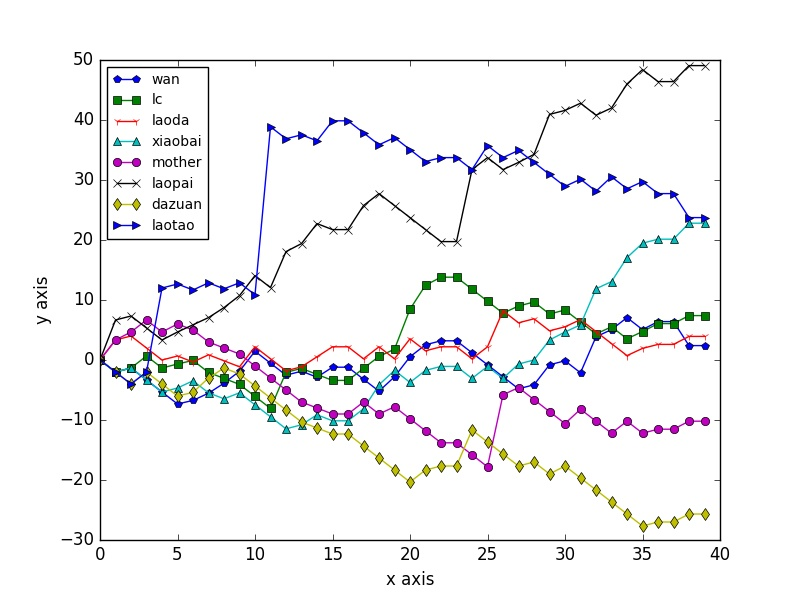
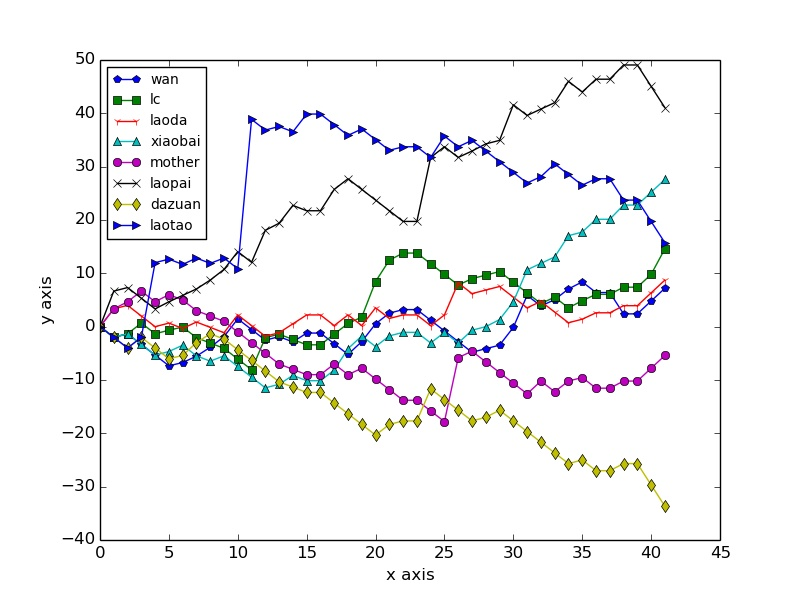
update

diff --git a/README.md b/README.md
@@ -1,23 +1,63 @@
 # E cup guess competition report
 ## real-time ranking
-2016-06-26 17:32:07
+2016-06-27 14:07:29
 
 |rank|name|score|win|loss|
 |:---:|:---:|:---:|:---:|:---:|
-|1|laopai|49.07|56%|27%|
-|2|laotao|23.73|36%|47%|
-|3|xiaobai|22.80|55%|28%|
-|4|lc|7.40|47%|36%|
-|5|laoda|3.93|46%|37%|
-|6|wan|2.40|44%|40%|
-|7|mother|-10.20|31%|53%|
-|8|dazuan|-25.67|26%|58%|
+|1|laopai|41.07|52%|32%|
+|2|xiaobai|27.60|56%|29%|
+|3|laotao|15.73|36%|49%|
+|4|lc|14.60|51%|33%|
+|5|laoda|8.73|48%|37%|
+|6|wan|7.20|45%|39%|
+|7|mother|-5.40|33%|51%|
+|8|dazuan|-33.67|26%|58%|
 
 ## Pond
-545.53
+543.13
 
 ## History
 ![image](https://github.com/Anserw/E_Cup/blob/master/plot.jpg)
+### 2016062703 Hungary 0 : 4 Belgium
+- handicap: 1 / 0.5
+- scorer: laotao
+- owners:
+ - Hungary: laotao
+ - Belgium: lc
+
+
+|name|guess|score change|
+|:---:|:---:|:---:|
+|wan|Belgium|2.40|
+|lc|Belgium|4.80|
+|laoda|Belgium|2.40|
+|xiaobai|Belgium|2.40|
+|mother|Belgium|2.40|
+|laopai|Hungary|-4.00|
+|dazuan|Hungary|-4.00|
+|laotao|Hungary|-4.00|
+|Pond|..|-2.40|
+
+### 2016062700 Germany 3 : 0 Slovakia
+- handicap: -1
+- scorer: laotao
+- owners:
+ - Germany: dazuan
+ - Slovakia: laopai
+
+
+|name|guess|score change|
+|:---:|:---:|:---:|
+|wan|Germany|2.40|
+|lc|Germany|2.40|
+|laoda|Germany|2.40|
+|xiaobai|Germany|2.40|
+|mother|Germany|2.40|
+|laopai|Slovakia|-4.00|
+|dazuan|Slovakia|-4.00|
+|laotao|Slovakia|-4.00|
+|Pond|..|0.00|
+
 ### 2016062603 Croatia 0 : 0 Portugal
 - handicap: 0
 - scorer: laotao
@@ -78,26 +118,6 @@
 |laotao|Poland|0.00|
 |Pond|..|0.00|
 
-### 2016062303 Italy 0 : 1 Ireland
-- handicap: -0.5 / 0
-- scorer: laotao
-- owners:
- - Italy: xiaobai
- - Ireland: laopai
-
-
-|name|guess|score change|
-|:---:|:---:|:---:|
-|wan|Italy|-2.00|
-|lc|Ireland|1.20|
-|laoda|Ireland|1.20|
-|xiaobai|Ireland|2.40|
-|mother|Italy|-2.00|
-|laopai|Ireland|2.40|
-|dazuan|Italy|-2.00|
-|laotao|Ireland|1.20|
-|Pond|..|-2.40|
-
 ### 2016062303 Sweden 0 : 1 Belgium
 - handicap: 0.5
 - scorer: laotao
@@ -117,6 +137,26 @@
 |dazuan|Belgium|0.67|
 |laotao|Sweden|-2.00|
 |Pond|..|-1.33|
+
+### 2016062303 Italy 0 : 1 Ireland
+- handicap: -0.5 / 0
+- scorer: laotao
+- owners:
+ - Italy: xiaobai
+ - Ireland: laopai
+
+
+|name|guess|score change|
+|:---:|:---:|:---:|
+|wan|Italy|-2.00|
+|lc|Ireland|1.20|
+|laoda|Ireland|1.20|
+|xiaobai|Ireland|2.40|
+|mother|Italy|-2.00|
+|laopai|Ireland|2.40|
+|dazuan|Italy|-2.00|
+|laotao|Ireland|1.20|
+|Pond|..|-2.40|
 
 ### 2016062300 Hungary 3 : 3 Portugal
 - handicap: 1.5 / 1
@@ -158,26 +198,6 @@
 |laotao|Austria|-2.00|
 |Pond|..|-4.00|
 
-### 2016062203 Croatia 2 : 1 Spain
-- handicap: 0.5
-- scorer: laotao
-- owners:
- - Croatia: mother
- - Spain: lc
-
-
-|name|guess|score change|
-|:---:|:---:|:---:|
-|wan|Spain|-2.00|
-|lc|Spain|-2.00|
-|laoda|Croatia|1.20|
-|xiaobai|Croatia|1.20|
-|mother|Croatia|2.40|
-|laopai|Croatia|1.20|
-|dazuan|Spain|-2.00|
-|laotao|Croatia|1.20|
-|Pond|..|-1.20|
-
 ### 2016062203 Czech 0 : 2 Turkey
 - handicap: 0.5 / 0
 - scorer: laotao
@@ -198,25 +218,25 @@
 |laotao|Czech|-2.00|
 |Pond|..|0.00|
 
-### 2016062200 NorthernIreland 0 : 1 Germany
-- handicap: 1.5
+### 2016062203 Croatia 2 : 1 Spain
+- handicap: 0.5
 - scorer: laotao
 - owners:
- - NorthernIreland: laopai
- - Germany: dazuan
+ - Croatia: mother
+ - Spain: lc
 
 
 |name|guess|score change|
 |:---:|:---:|:---:|
-|wan|NorthernIreland|3.33|
-|lc|Germany|-2.00|
-|laoda|Germany|-2.00|
-|xiaobai|NorthernIreland|3.33|
-|mother|Germany|-2.00|
-|laopai|NorthernIreland|6.67|
-|dazuan|Germany|-2.00|
-|laotao|Germany|-2.00|
-|Pond|..|-3.33|
+|wan|Spain|-2.00|
+|lc|Spain|-2.00|
+|laoda|Croatia|1.20|
+|xiaobai|Croatia|1.20|
+|mother|Croatia|2.40|
+|laopai|Croatia|1.20|
+|dazuan|Spain|-2.00|
+|laotao|Croatia|1.20|
+|Pond|..|-1.20|
 
 ### 2016062200 Ukraine 0 : 1 Poland
 - handicap: 0.5
@@ -237,6 +257,26 @@
 |dazuan|Poland|1.33|
 |laotao|Ukraine|-2.00|
 |Pond|..|-1.33|
+
+### 2016062200 NorthernIreland 0 : 1 Germany
+- handicap: 1.5
+- scorer: laotao
+- owners:
+ - NorthernIreland: laopai
+ - Germany: dazuan
+
+
+|name|guess|score change|
+|:---:|:---:|:---:|
+|wan|NorthernIreland|3.33|
+|lc|Germany|-2.00|
+|laoda|Germany|-2.00|
+|xiaobai|NorthernIreland|3.33|
+|mother|Germany|-2.00|
+|laopai|NorthernIreland|6.67|
+|dazuan|Germany|-2.00|
+|laotao|Germany|-2.00|
+|Pond|..|-3.33|
 
 ### 2016062103 Russia 0 : 3 Welsh
 - handicap: 0
